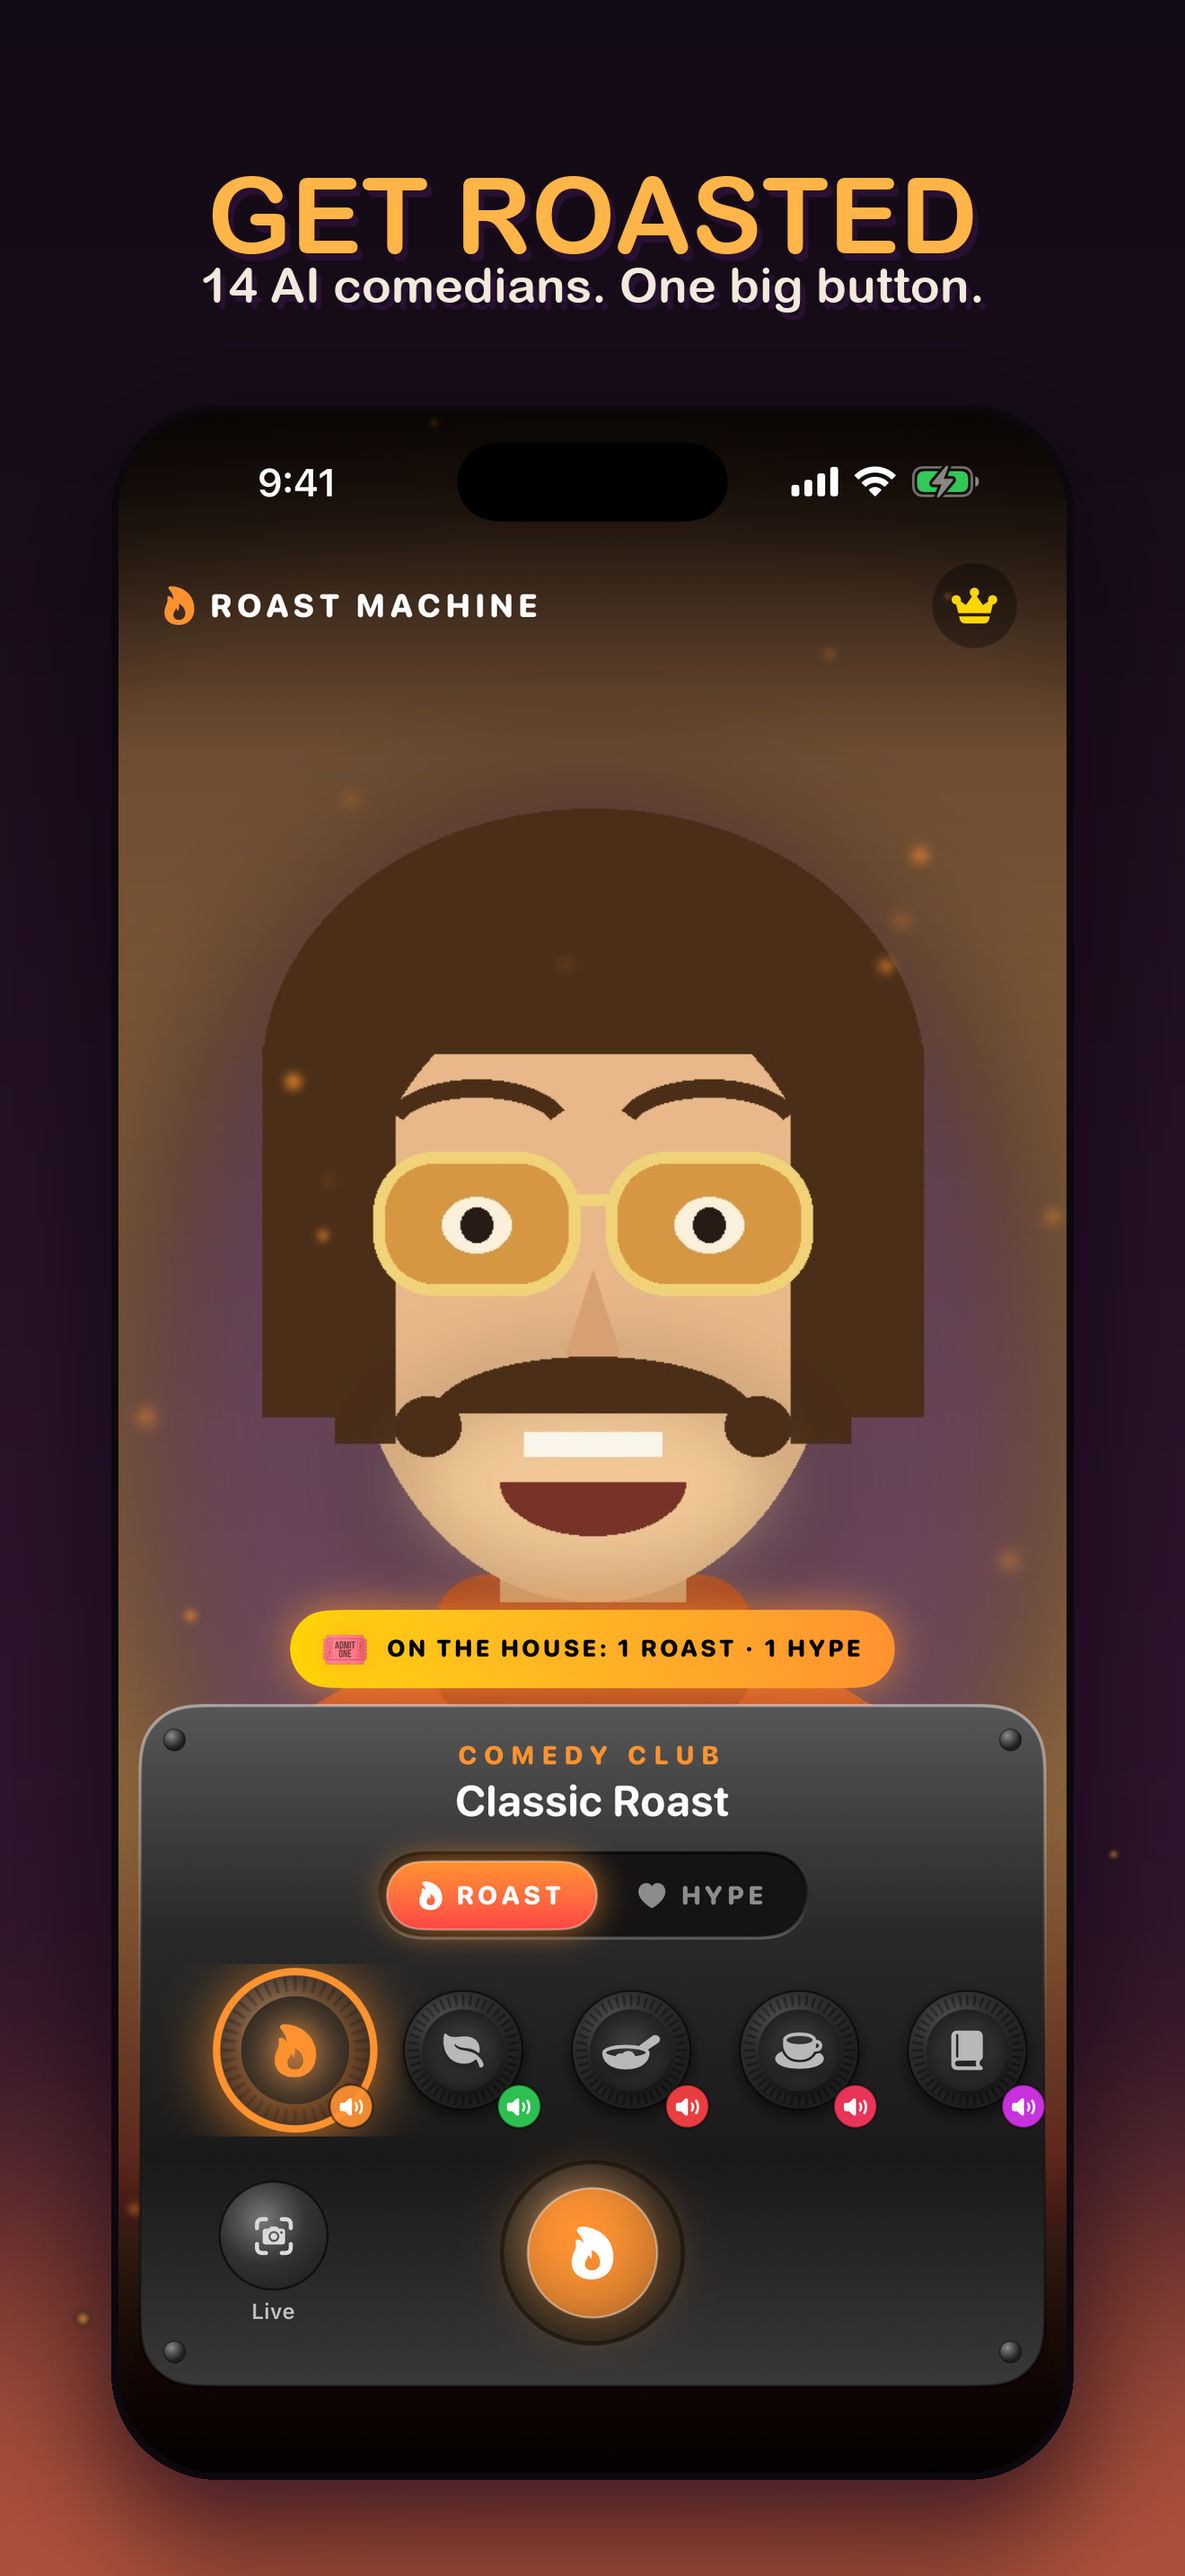
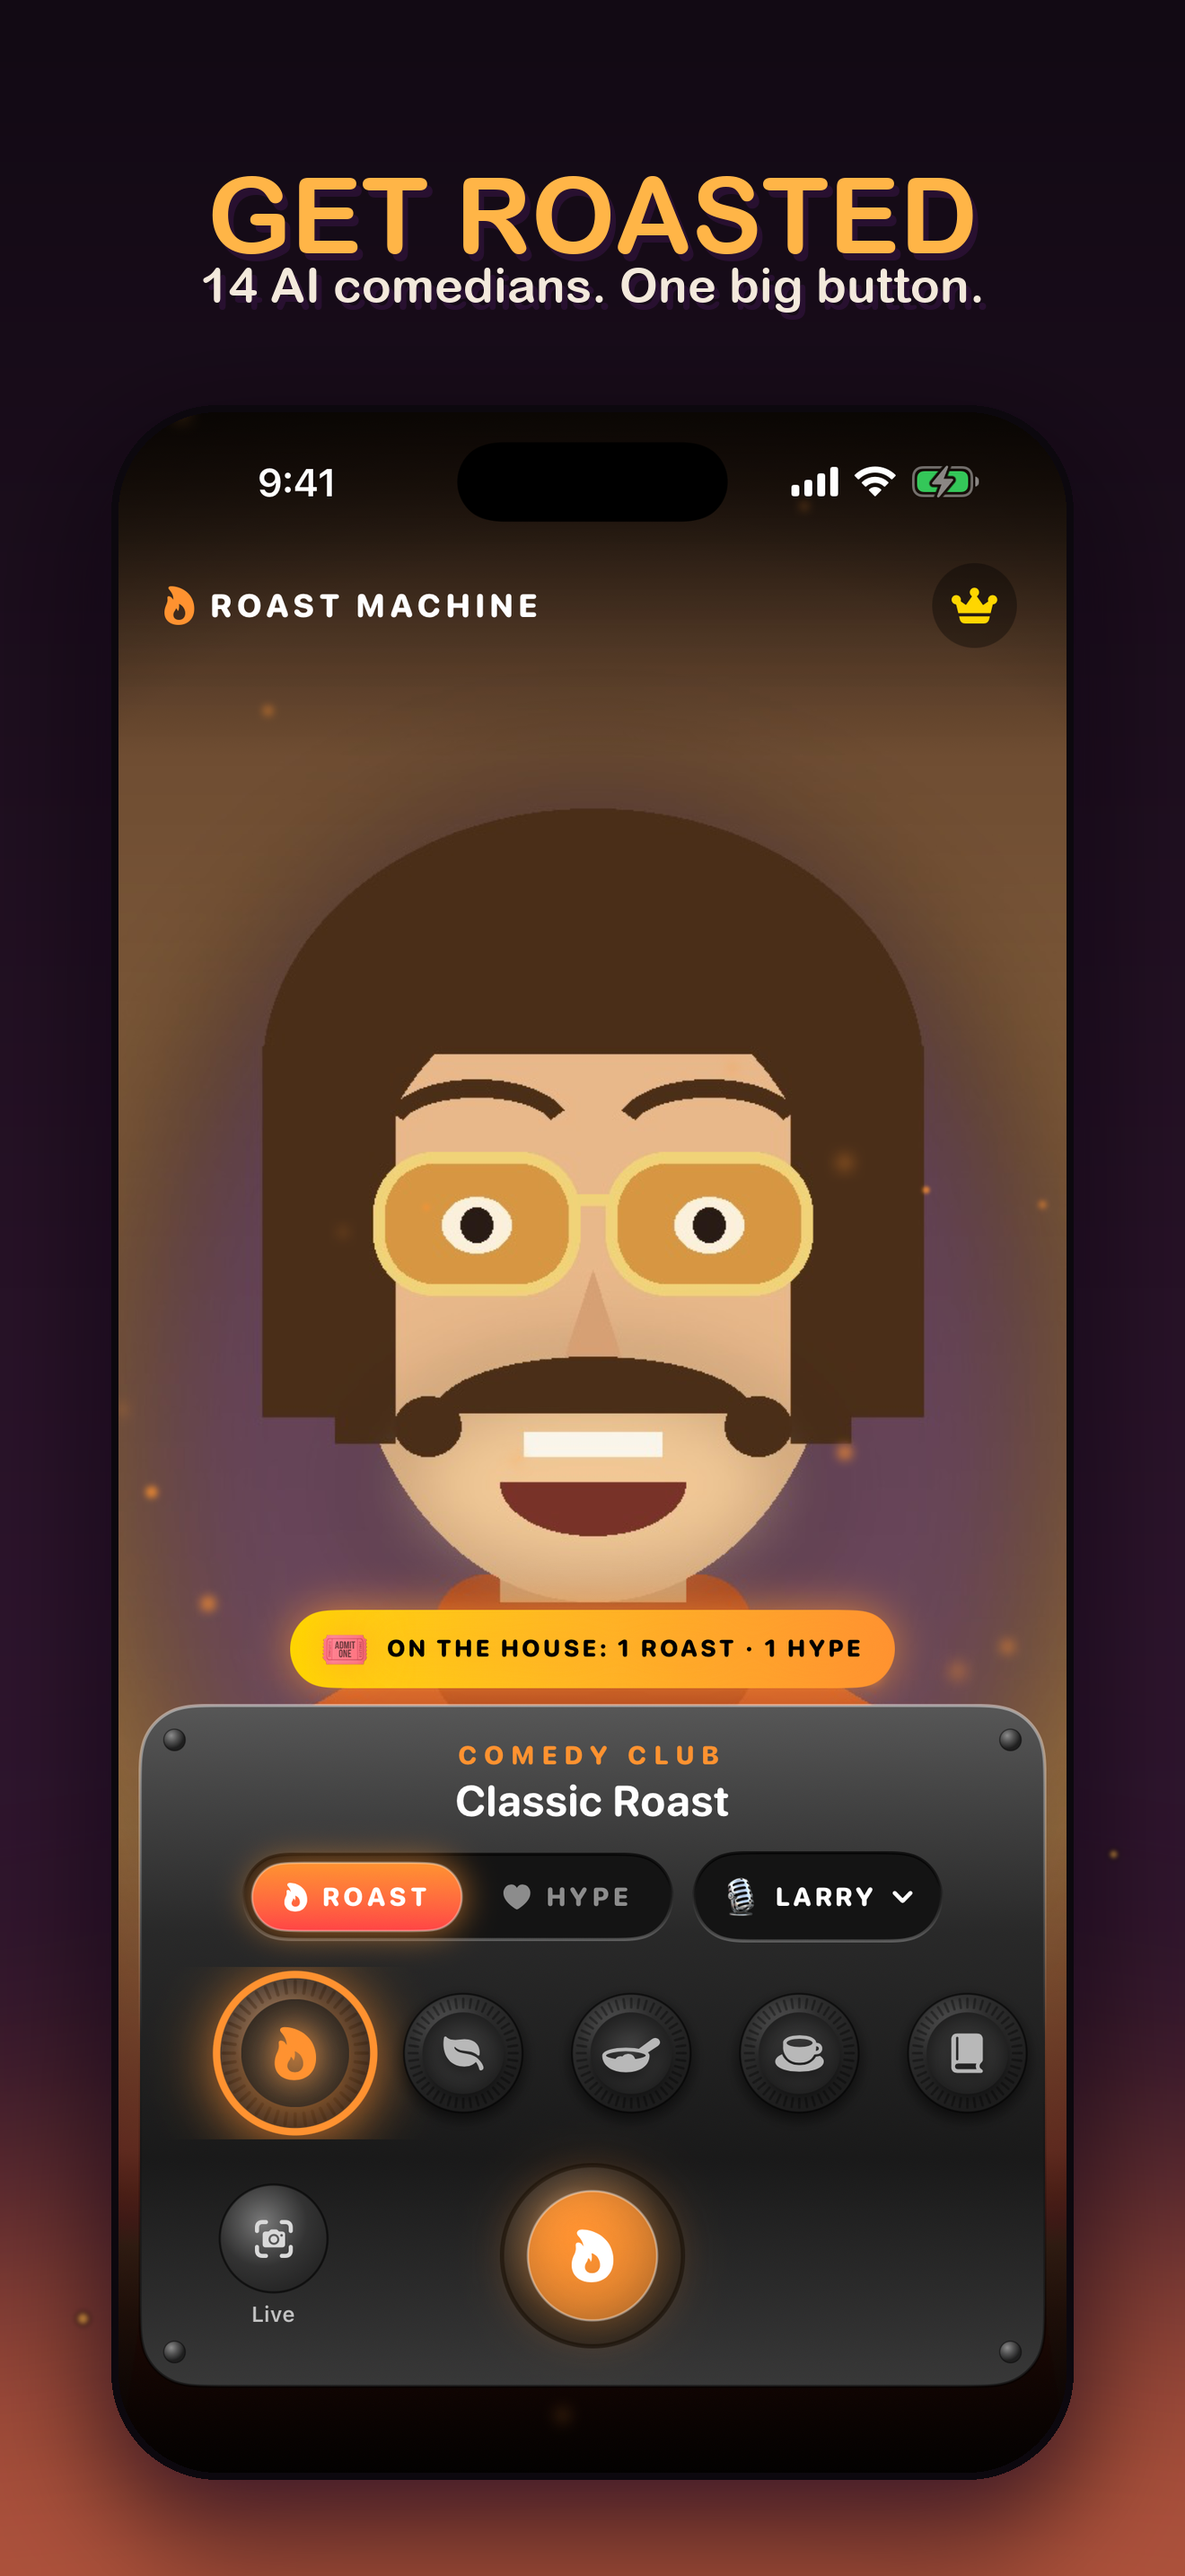
Reshoot Stage screenshots with the voice pill; add the voice picker shot
- 01/03/05 no longer show the retired knob preview badges.
- New 06_voice_picker ("PICK YOUR VOICE").
- RM_DEMO_WALLET=<tickets>,<0|1>,<0|1> debug rig for fresh-install captures.

diff --git a/RoastMachine/Store/StoreManager.swift b/RoastMachine/Store/StoreManager.swift
@@ -65,9 +65,18 @@ final class StoreManager: ObservableObject {
     func start() async {
 #if DEBUG && targetEnvironment(simulator)
         // Test rig: `SIMCTL_CHILD_RM_DEMO_SOLDOUT=1` starts with an empty wallet
-        // so the sold-out roasts can be heard without touching the server.
-        if ProcessInfo.processInfo.environment["RM_DEMO_SOLDOUT"] == "1" {
-            wallet = Wallet(tickets: 0, freeRoast: false, freeHype: false)
+        // so the sold-out roasts can be heard without touching the server;
+        // `RM_DEMO_WALLET=<tickets>,<freeRoast 0|1>,<freeHype 0|1>` sets any
+        // balance (e.g. `0,1,1` for a fresh install's screenshots).
+        let env = ProcessInfo.processInfo.environment
+        var demoWallet: Wallet?
+        if env["RM_DEMO_SOLDOUT"] == "1" {
+            demoWallet = Wallet(tickets: 0, freeRoast: false, freeHype: false)
+        } else if let parts = env["RM_DEMO_WALLET"]?.split(separator: ",").compactMap({ Int($0) }), parts.count == 3 {
+            demoWallet = Wallet(tickets: parts[0], freeRoast: parts[1] == 1, freeHype: parts[2] == 1)
+        }
+        if let demoWallet {
+            wallet = demoWallet
             await loadProducts()
             return
         }

diff --git a/scripts/frame_screenshots.py b/scripts/frame_screenshots.py
@@ -25,7 +25,7 @@ CAPTIONS = {
     "03_stage_hype":    ("OR GET HYPED",          "Flip the switch for over-the-top compliments."),
     "04_result_hype":   ("ZERO BURNS. ALL LOVE.", "Shakespeare thinks you're a legend."),
     "05_stage_mom":     ("PICK YOUR POISON",      "Angry Chef, Disappointed Mom, Shakespeare & more."),
-    "06_paywall":       ("ONE PRICE. FOREVER.",   "Your first roast and first hype are free."),
+    "06_voice_picker":  ("PICK YOUR VOICE",       "A hype man, a pirate, a bee & more."),
 }
 
 BG_TOP = (18, 10, 20)        # deep violet-black

diff --git a/CLAUDE.md b/CLAUDE.md
@@ -122,8 +122,9 @@ art and the emoji sticker stream as not useful; don't reintroduce them.
   camera and `simctl addmedia` crashes on Xcode 26.6); `SIMCTL_CHILD_RM_DEMO_UNLOCK=1`
   shows the paid experience. Also `RM_DEMO_MODE`, `RM_DEMO_FLAVOR`, `RM_DEMO_AUTORUN=1`
   (accept consent + fire the shutter), `RM_DEMO_BOXOFFICE=1`, `RM_DEMO_VOICE=<key>`,
-  `RM_DEMO_VOICEPICKER=1`, and `RM_DEMO_SOLDOUT=1` (empty wallet: with AUTORUN it
-  plays the next sold-out roast).
+  `RM_DEMO_VOICEPICKER=1`, `RM_DEMO_SOLDOUT=1` (empty wallet: with AUTORUN it
+  plays the next sold-out roast), and `RM_DEMO_WALLET=<tickets>,<0|1>,<0|1>`
+  (any balance; `0,1,1` shows the fresh-install "on the house" banner).
 
 ## Art pipeline
 Backdrops (`Assets.xcassets/Backdrops/backdrop_<modeid>`) and the app icon are
